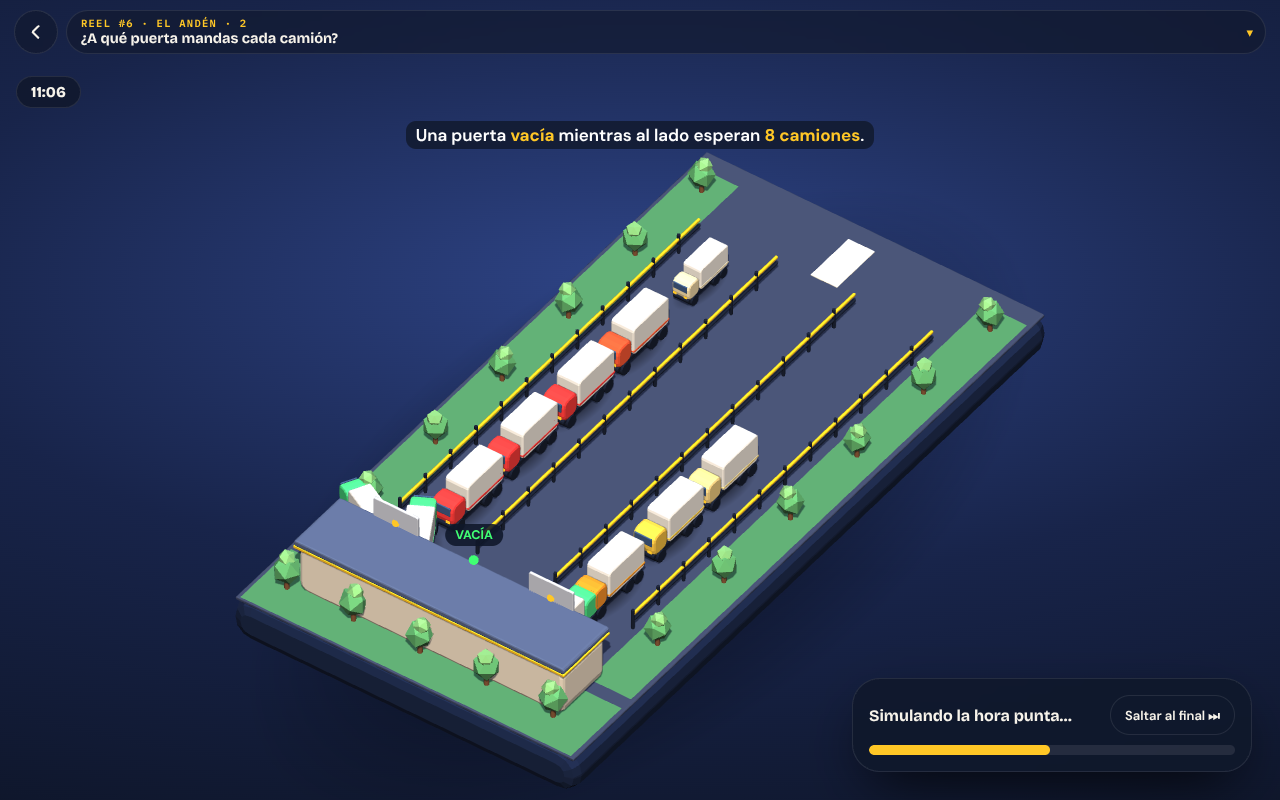
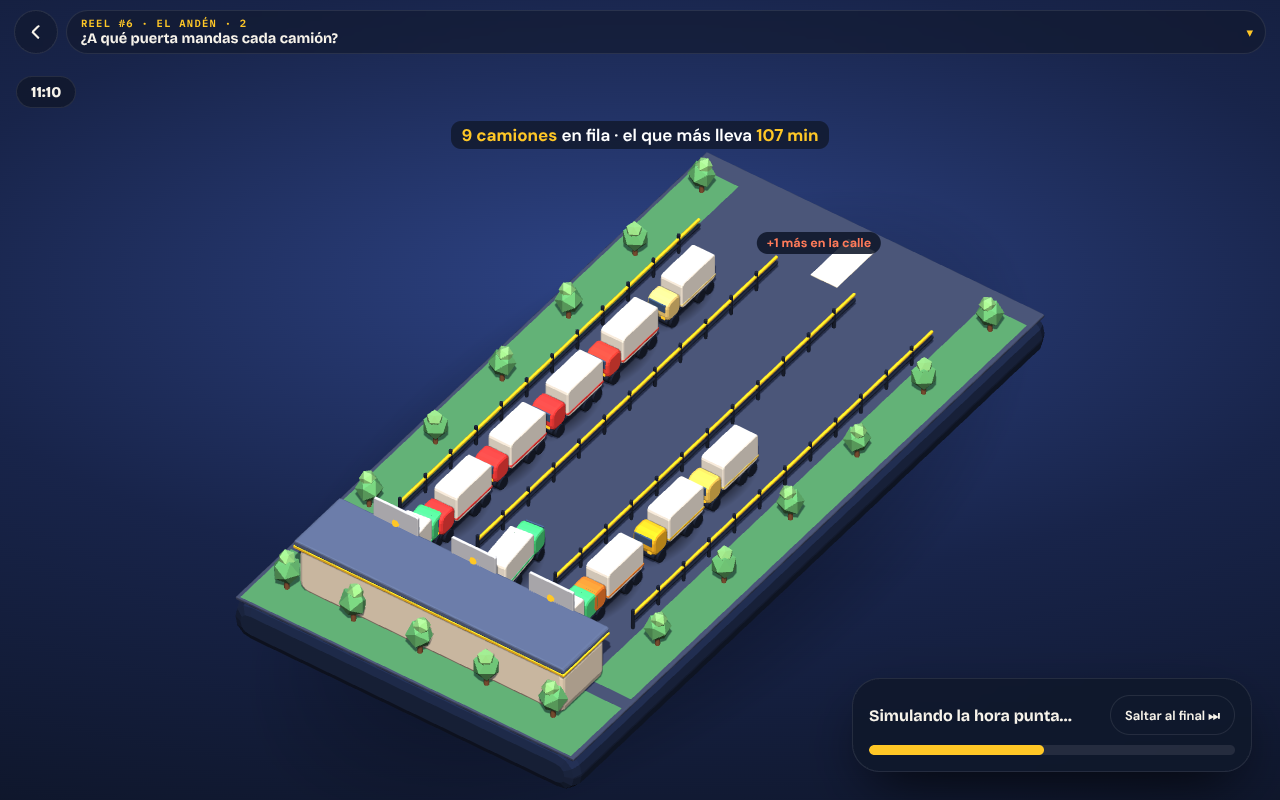
Links de los reels 1 a 5 en «Comentar en el reel»; el 6 queda pendiente de publicación
Claude-Session: https://claude.ai/code/session_012heeZAPRjvf8dPYd9NNqte

diff --git a/index.html b/index.html
@@ -1157,7 +1157,7 @@ const BIB={"bailey1952": {"gancho": {"es": "Una sala de espera llena a las nueve
 /* Reel numbers we know. Add the rest here when they are defined. */
 const REELNUM={ups:1,ikea:2,amazon:3,bailey:4,nivel:5,fila:6};
 /* link to each reel on Instagram; fill in as they are published. Without a link the "comment on the reel" button does not appear. */
-const REELURL={ups:"",ikea:"",amazon:"",bailey:"",nivel:"",fila:""};
+const REELURL={ups:"https://www.instagram.com/reel/Defz-sxszGb/",ikea:"https://www.instagram.com/reel/DezEKQptA4Y/",amazon:"https://www.instagram.com/reel/DfFMTiWBypl/",bailey:"https://www.instagram.com/reel/De-Jj9yhzV8/",nivel:"https://www.instagram.com/reel/DetzxzthV-D/",fila:""};/* fila: reel 6 not published yet */
 const REEL2LAB={};for(const k in REELNUM)REEL2LAB[REELNUM[k]]=k;
 const fmin=x=>!isFinite(x)?"∞":x>=100?nf(x):nf(x,1);
 const tone=(v,good,bad)=>!isFinite(v)?"bad":v<=good?"good":v>=bad?"bad":"mid";

diff --git a/src/game.js b/src/game.js
@@ -5,7 +5,7 @@
 /* Reel numbers we know. Add the rest here when they are defined. */
 const REELNUM={ups:1,ikea:2,amazon:3,bailey:4,nivel:5,fila:6};
 /* link to each reel on Instagram; fill in as they are published. Without a link the "comment on the reel" button does not appear. */
-const REELURL={ups:"",ikea:"",amazon:"",bailey:"",nivel:"",fila:""};
+const REELURL={ups:"https://www.instagram.com/reel/Defz-sxszGb/",ikea:"https://www.instagram.com/reel/DezEKQptA4Y/",amazon:"https://www.instagram.com/reel/DfFMTiWBypl/",bailey:"https://www.instagram.com/reel/De-Jj9yhzV8/",nivel:"https://www.instagram.com/reel/DetzxzthV-D/",fila:""};/* fila: reel 6 not published yet */
 const REEL2LAB={};for(const k in REELNUM)REEL2LAB[REELNUM[k]]=k;
 const fmin=x=>!isFinite(x)?"∞":x>=100?nf(x):nf(x,1);
 const tone=(v,good,bad)=>!isFinite(v)?"bad":v<=good?"good":v>=bad?"bad":"mid";
